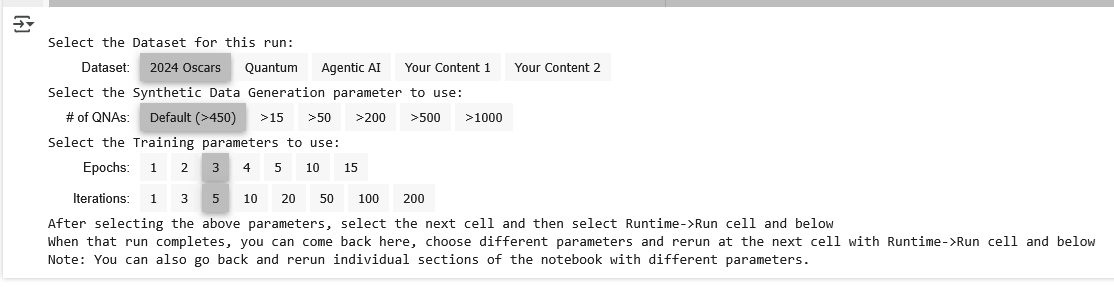
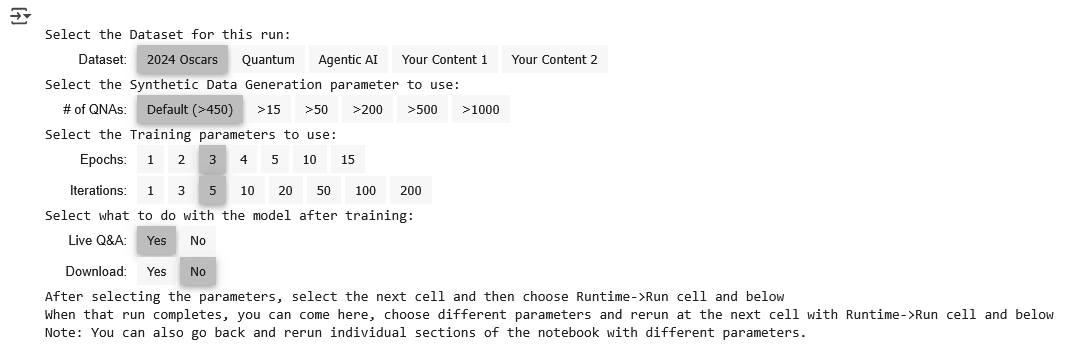
Update Doc

Changed region(s): [[0.0, 0.0, 1.0, 0.9863], [0.3408, 0.524, 0.4028, 0.5548]]

diff --git a/Developer.md b/Developer.md
@@ -104,19 +104,21 @@ Follow these steps to add your own dataset:
 1. Double click on the /content/ilab/config.json file to edit and specify the qna_location where your data resides within the Dewey Decimal classification system. Close and save the config.json file.
 1. You can now specify to run with your own data by selecting **Your Content 1** or **Your Content 2** in the next code cell.
 
-<img src="./images/ColabFiles.png" width=700>
+<img src="./images/ColabFiles.png" width=800>
 
 ## Step 7. Run the second cell and select the InstructLab parameters
 
 1. Run the second code code cell by clicking on the arrow next to it. Once the second cell is run, it presents a number of different parameters available for running Instructlab.
 
-<img src="./images/IlabParms.png" width=700>
+<img src="./images/IlabParms.png" width=800>
 
 2. Select the desired run parameters. The paramters are as follows:
 - Dataset - Choose between data on the 2024 Oscars, IBM Quantum technology, and Agentic AI
 - Number of Questions and Answars (QNA) -Selects the number of QNAs to be synthetically generated. You may wish ot select a small number of QNAs if you are introducing a new Dataset.
 - Number of Epochs: specifies the number of times the learning algorithm will work through the entire training dataset.
 - Iternations - specifies the number of stages of training.
+- Live Q&A - option to open an inferecing dialogue with untrained and trained models to compare results
+- Download - option to download the created trained model
 
 ## Step 8. Run the remainder of the notebook
 
@@ -124,32 +126,32 @@ Follow these steps to add your own dataset:
 
 <img src="./images/ThirdCell.png" width=700>
 
-2. The run will proceed as follows:
+2. The run will proceed as follows to configure InstructLab and create a model:
 - Complete the environment setup by installing instructlab and other required packages
 - Configure the InstructLab installation
 - Download LLM models for training and teaching
 - Create a taxonomy with the new data
 - Perform synthetic data generation
 - Run model training with the synthetic data
-- Opens an inferecing dialogue with untrained and trained models
+
+3. After the model is created, you can choose to run inferencing on the model or download the trained model
+
+- Optionally opens an inferencing dialogue with untrained and trained models
+- Optionally downloads the trained model
 
 After the run completes by exiting the inferencing loop, you can make another run if desired. To do that, go back to the second code cell, run it, and change the run parameters. Then select the third code cell without running it and click on Runtime->Run cell and below to run the rest of the notebook.
 
-## Step 9. Run inference to compare the base model and the trained model
-
-Click on the Folder icon on the left to explore the files in the ilab folder. Preloaded QNA files and synthetically generated questions and answers can be found in this directory tree.
-
-## Step 10. Optionally Download trained model
-
-## Step 11. Stop Runtime
-
-## Step 12. Create your onw QNA File and repeat the above with your own data
-
 # Summary and next steps
+
+This Tutorial demonstrated utilizing InstructLab for introducing datasets, data generation and model training. This notebook produced an InstructLab trained model that was available for inferecing and downloading.
+
+Click on the Folder icon on the left to explore the files in the ilab folder. Preloaded QNA files and synthetically generated questions and answers can be found in this directory tree. You can also select **Runtime->View resources** to see the resource utilization of the run.
+
+<img src="./images/ColabMore.png" width=1000>
 
 Try running the notebook with the other example data sets. You can also experiment with how the number of Epochs and Iterations affect the quality of the gnerated model
 
 After running through the Instructlab notebook, you are encouraged to create your own QNA file file as desscribed in Step 6.
 
-You can download your generated model and 
+Once you have trained your model, you can download your model and experiment with it in other environments.
 
